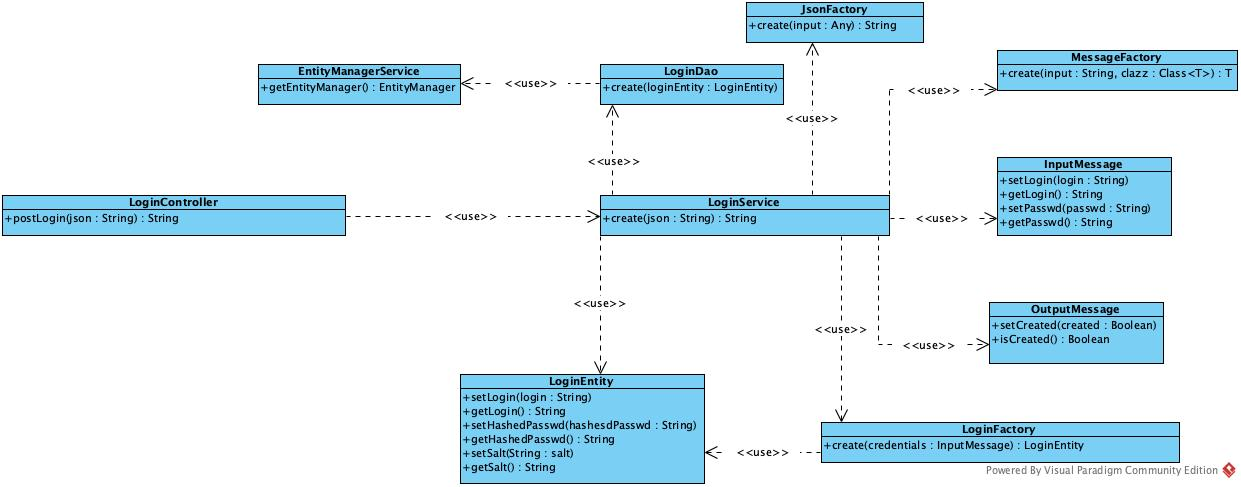
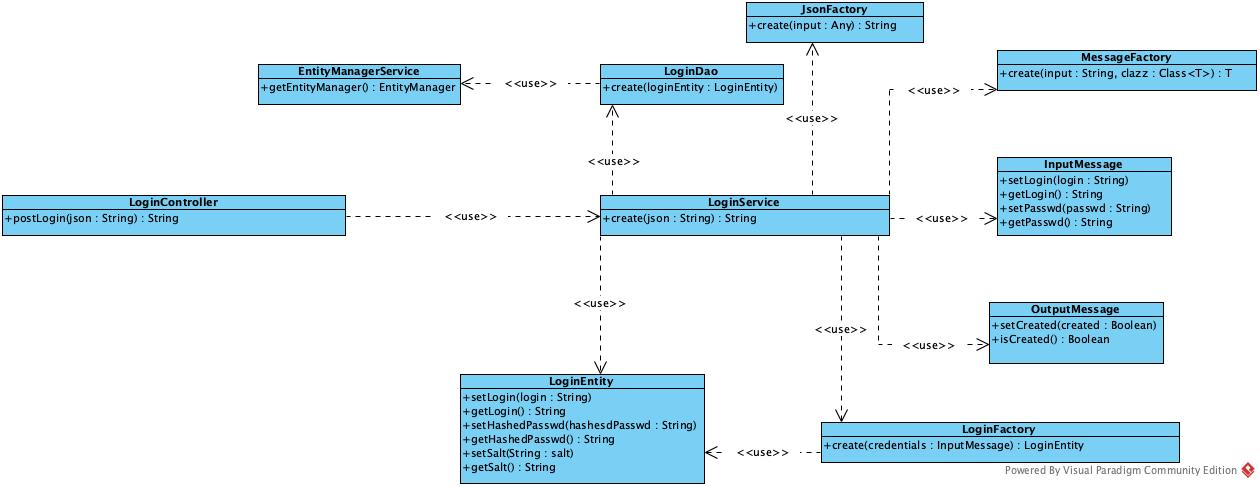
fix for MessageFactory

diff --git a/src/main/java/eu/pstdio/LoginCreatorApi/business/factory/MessageFactory.kt b/src/main/java/eu/pstdio/LoginCreatorApi/business/factory/MessageFactory.kt
@@ -3,5 +3,5 @@ package eu.pstdio.LoginCreatorApi.business.factory
 import kotlin.reflect.KClass
 
 interface MessageFactory {
-	fun <T> create(input : String, clazz : KClass<Any>) : T
+	fun <T> create(input : String, clazz : Class<T>) : T
 }
